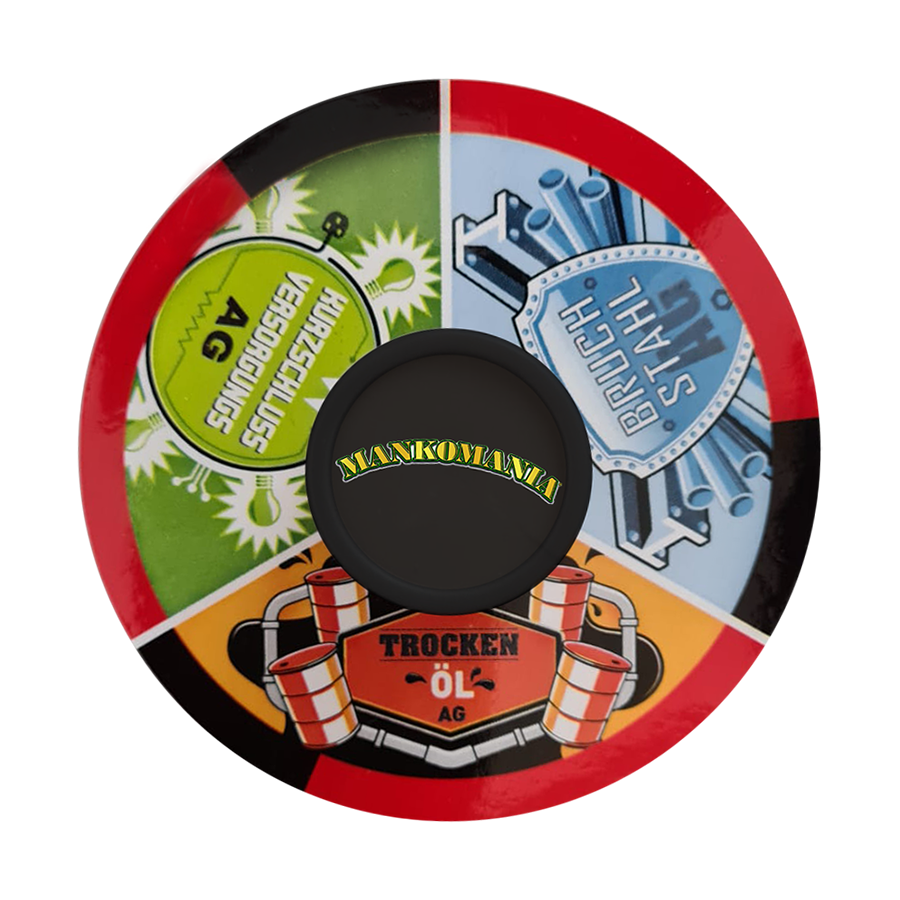
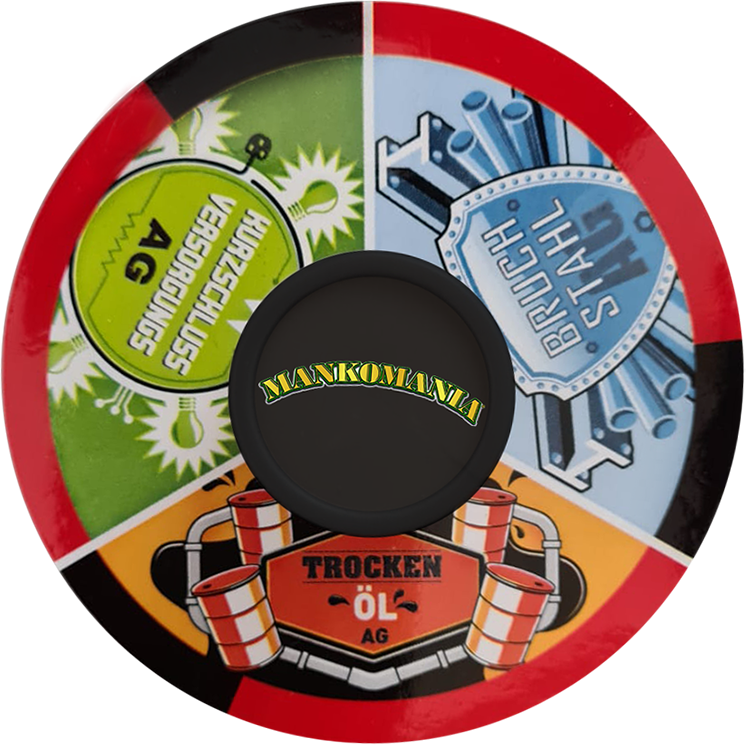
#39 Fix Image size and position

diff --git a/core/src/com/mankomania/game/screens/StockScreen.java b/core/src/com/mankomania/game/screens/StockScreen.java
@@ -49,8 +49,8 @@ public class StockScreen extends ScreenAdapter {
         Texture wheel = new Texture(Gdx.files.internal("stockwheel.png"));
         Image stockwheel = new Image(wheel);
 
-        stockwheel.setWidth(.5f * Gdx.graphics.getWidth());
-        stockwheel.setScaling(Scaling.fillX);
+        stockwheel.setHeight(Gdx.graphics.getHeight()*0.8f);
+        stockwheel.setScaling(Scaling.fillY);
         stockwheel.setOrigin(Align.center);
         stockwheel.setPosition(Gdx.graphics.getWidth()/2f - stockwheel.getWidth()/2f, Gdx.graphics.getHeight()/2f - stockwheel.getHeight()/2f);
 
@@ -58,7 +58,7 @@ public class StockScreen extends ScreenAdapter {
         Image wheelPointer = new Image(wheelPoint);
         wheelPointer.setScale(0.8f,0.8f);
         wheelPointer.setOrigin(Align.center);
-        wheelPointer.setPosition(Gdx.graphics.getWidth()/2f - wheelPointer.getWidth()/2f, Gdx.graphics.getHeight()/2f + Gdx.graphics.getHeight()*0.25f);
+        wheelPointer.setPosition(Gdx.graphics.getWidth()/2f - wheelPointer.getWidth()/2f, Gdx.graphics.getHeight() / 2f + stockwheel.getHeight() /2f - wheelPointer.getHeight()/2f);
 
         rotate.setRotation(spinsDeg);
         rotate.setDuration(2f);
